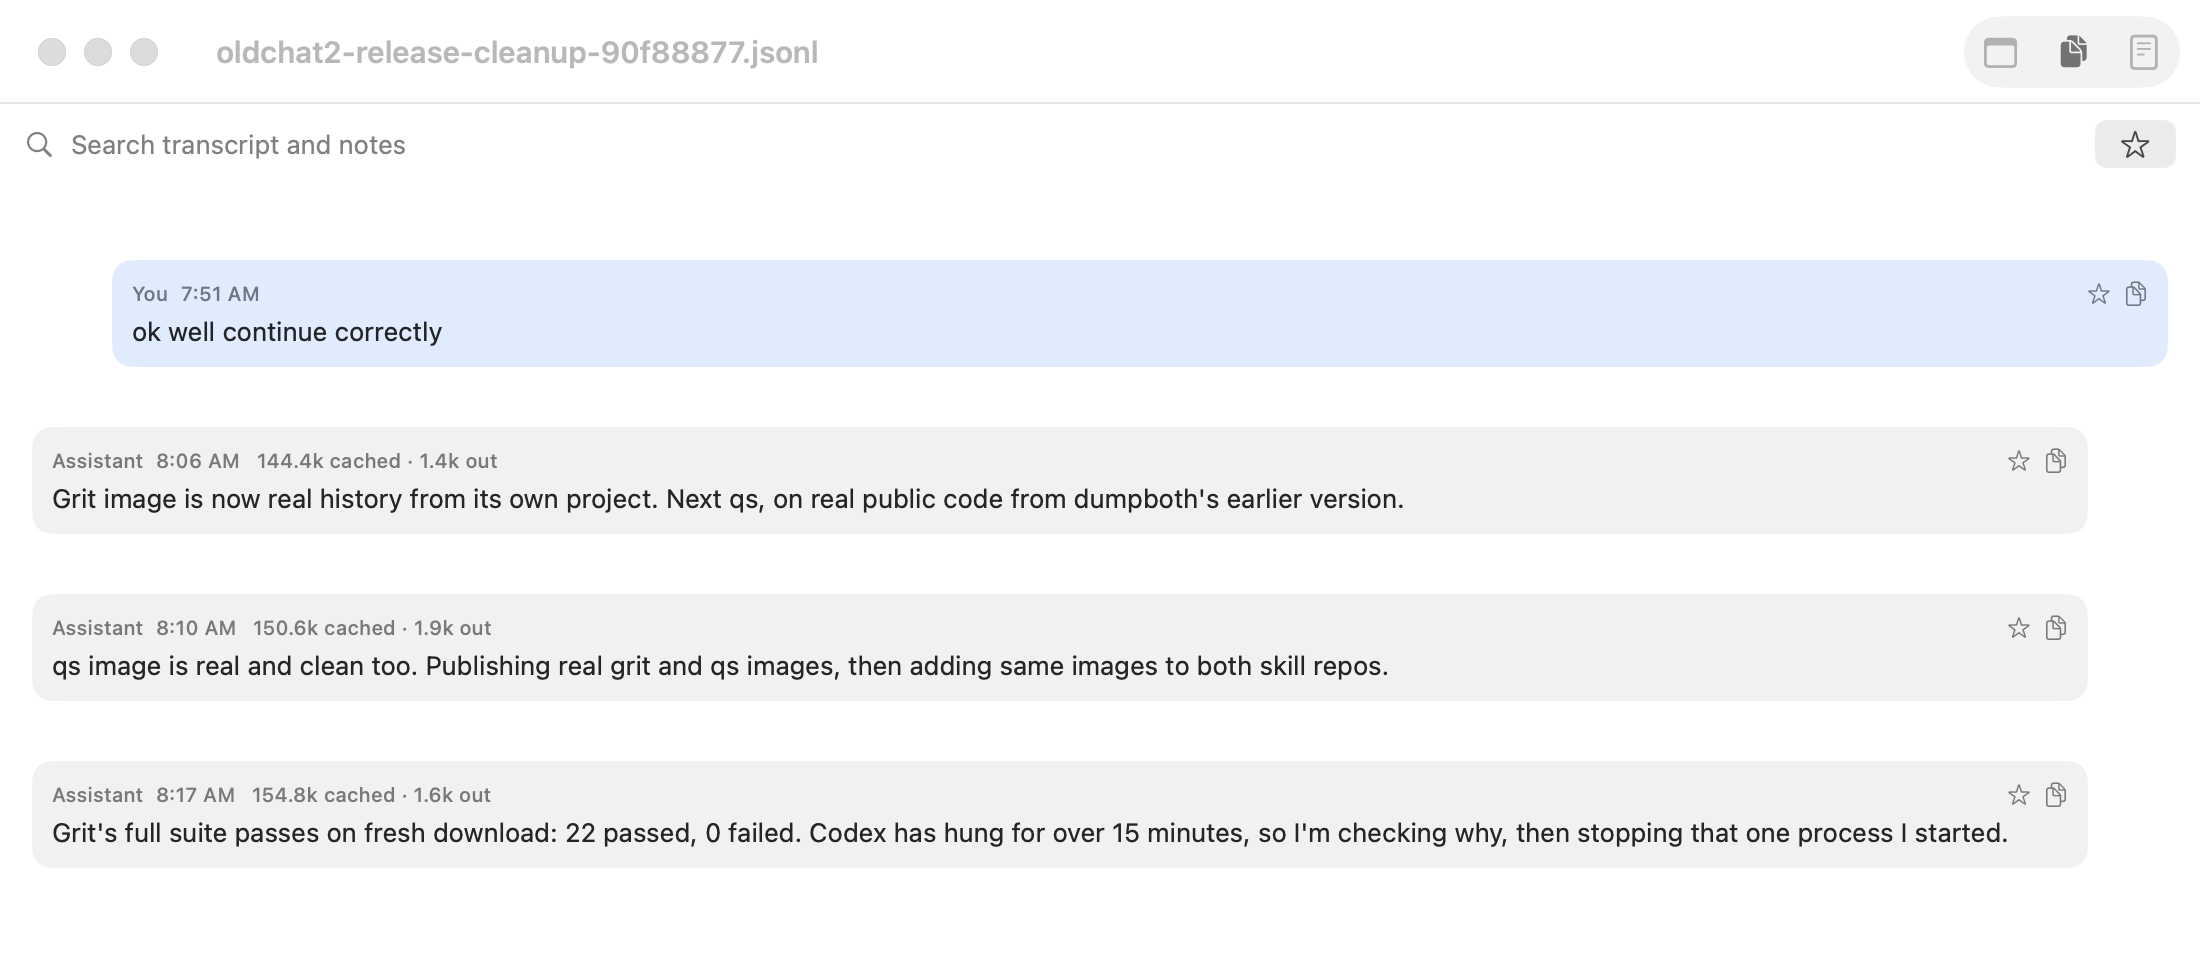
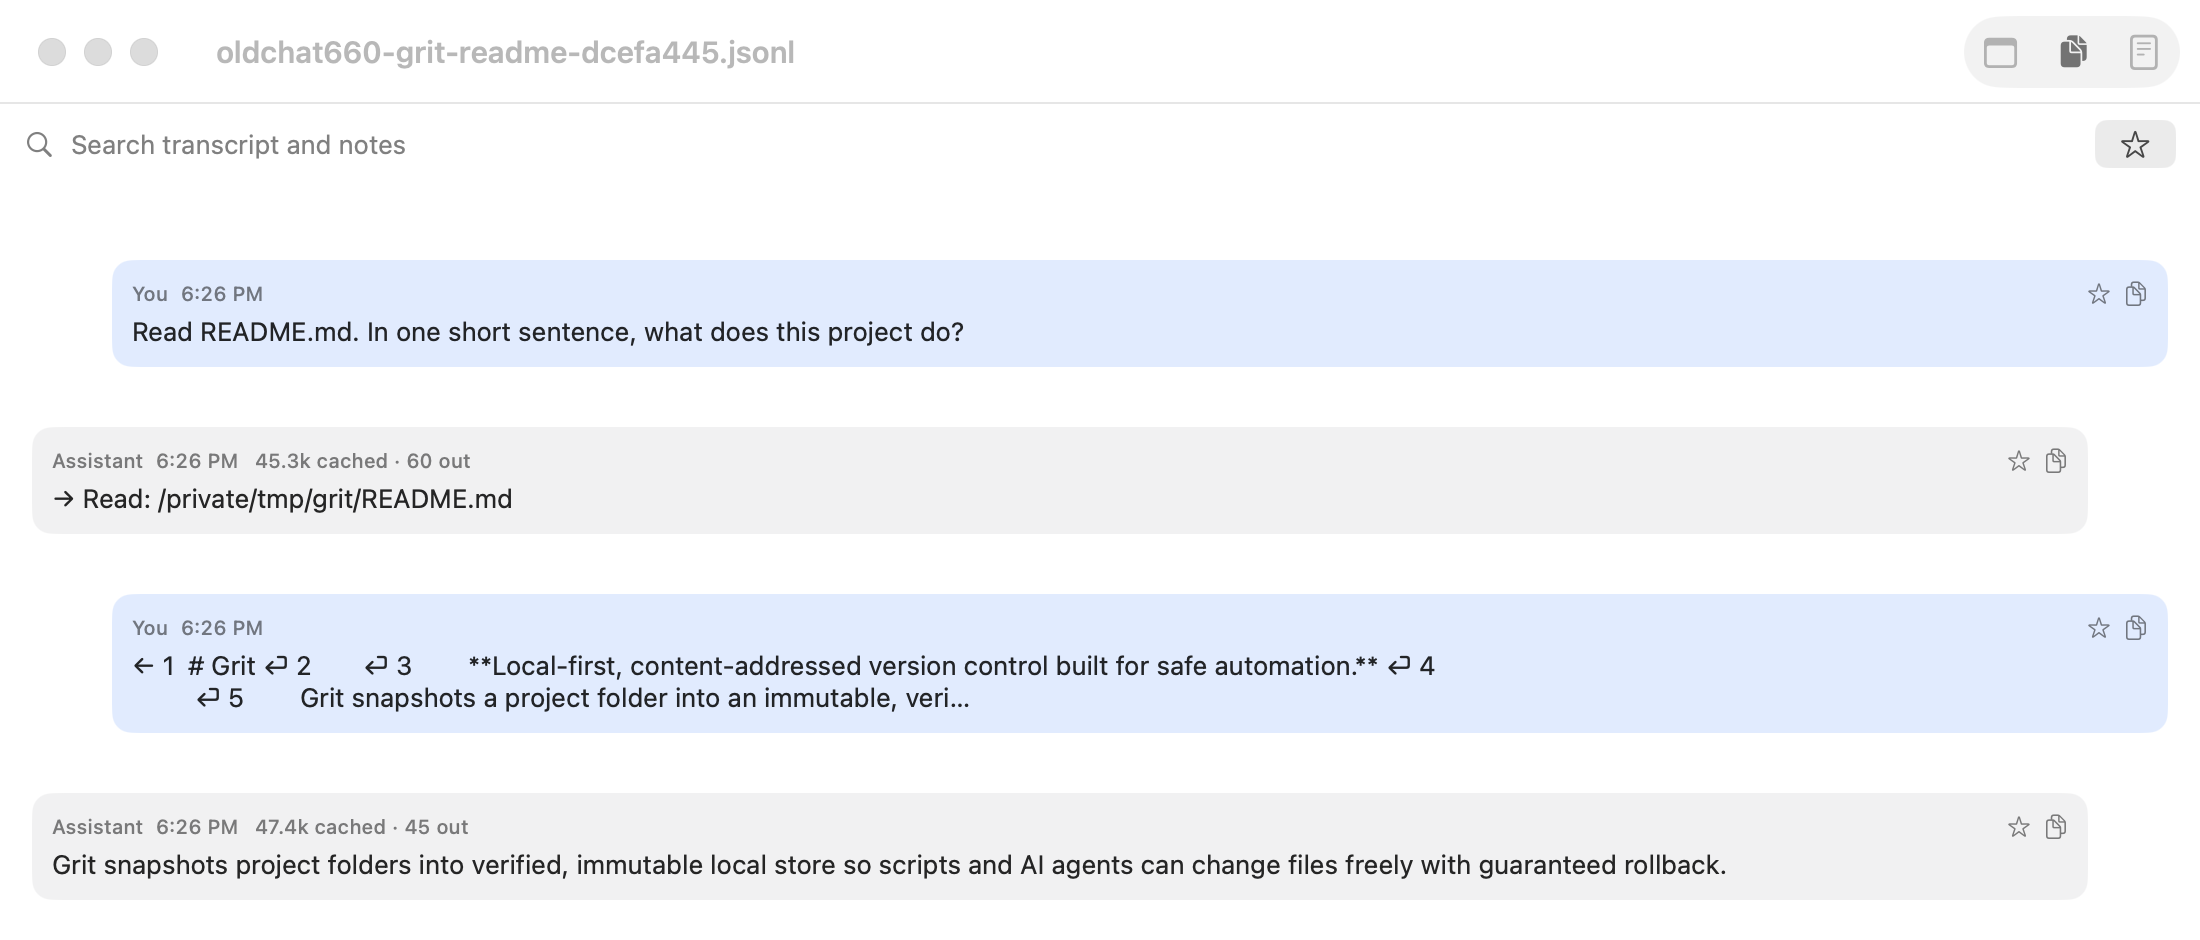
publish dbv from dbv (123 files)

diff --git a/README.md b/README.md
@@ -6,7 +6,7 @@ Mac chat viewer for Claude chats you save with
 Sessions on the left, transcript on the right. Search, star, copy, and add notes.
 Saved `.jsonl` files are opened read-only.
 
-![DBV showing excerpt of real chat](docs/images/dbv.png)
+![DBV showing that same saved chat](docs/images/dbv.png)
 
 ## Build
 
